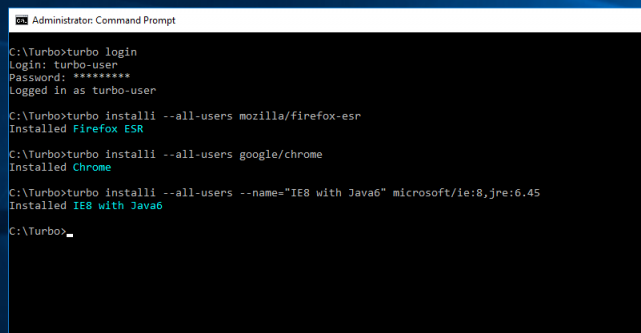
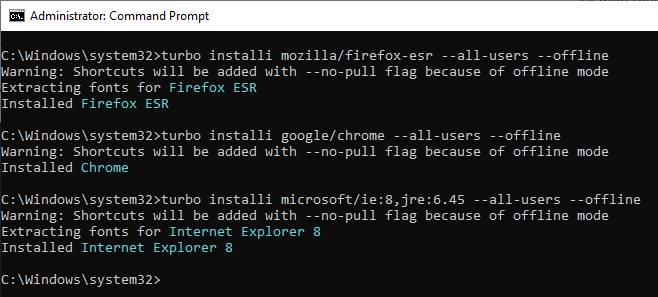
updated citrix integration guide

Changed region(s): [[0.0, 0.0, 1.0, 1.0]]

diff --git a/.vitepress/config.js b/.vitepress/config.js
@@ -82,8 +82,8 @@ export default defineConfig({
                   collapsed: true,
                   items: [
                     { text: 'Overview', link: '/guides/integrations/citrix-guide/' },
-                    { text: 'Command Line', link: '/guides/integrations/citrix-guide/command-line' },
-                    { text: 'Scripts', link: '/guides/integrations/citrix-guide/scripts' }
+                    { text: 'Citrix Virtual Apps', link: '/guides/integrations/citrix-guide/citrix-apps' },
+                    { text: 'Citrix Virtual Desktops', link: '/guides/integrations/citrix-guide/citrix-desktops' }
                   ]
                 },
                 { text: 'Intune', link: '/guides/integrations/intune' },

diff --git a/src/guides/integrations/citrix-guide/citrix-apps.md b/src/guides/integrations/citrix-guide/citrix-apps.md
@@ -1,0 +1,116 @@
+# Citrix Virtual Apps
+
+Deploy Turbo applications to Citrix Virtual Apps servers using the Turbo command line interface with the following steps.
+
+::: tip Prerequisites
+- [Turbo for Windows](https://turbo.net/download/#client) installed for all users
+- Administrative access to Citrix Virtual Apps server
+- Access to Citrix Studio
+:::
+
+## Initial Setup
+
+Install the Turbo Client on the Citrix Virtual Apps server using the [standalone deployment](/guides/desktop-client/standalone-client) or [offline deployment](/guides/desktop-client/offline-client) method.
+
+::: tip Tip
+If users will be streaming the application window rather than the whole desktop, we recommend hiding the Turbo GUI using the `--hide-gui` flag.
+
+:::
+
+```
+> start /wait turbo-client.exe --all-users --silent --hide-gui
+```
+
+![Citrix start command](/images/citrix2.png)
+
+## Adding Applications to the Start Menu
+
+### Using `turbo subscribe`
+
+[Turbo Workspaces](/guides/server/workspaces.html) can be subscribed to the Citrix Virtual Apps server by following the [deploy using subscriptions](/guides/desktop-client/subscriptions.html#deploy-using-subscriptions) guide.
+
+### Using `turbo installi`
+
+Turbo application desktop integration, including Start Menu, desktop shortcuts, and file associations, can be enabled with the `turbo installi` command along with the `--all-users` flag.
+
+1. 	Import the SVM packaged applications on the Citrix Virtual Apps Server that have been created with [Turbo Studio](/studio/) to the client's image repository.
+Application SVMs can also be pulled from Turbo.net Hub.
+
+	::: tip Tips
+	- When pulling an image, if you omit the version from the application identifier, then the latest version will be used.
+	- Multiple images can be pulled simultaneously using a comma separated list.
+	:::
+
+	```
+	# Pull SVM from Turbo.net Hub
+	turbo pull mozilla/firefox-esr,google/chrome,microsoft/ie:8,jre:6.45 --all-users
+
+	# Import SVM from a local folder
+	turbo import svm -n=mozilla/firefox-esr C:\temp\firefox-esr.svm --all-users
+
+	# Import SVM from network folder
+	# Caution: network errors or intermittent network issues may cause the command to fail and need to be re-run
+	turbo import svm -n=mozilla/firefox-esr \\networkshare\turbo\packages\mozilla_firefox-esr\mozilla_firefox-esr.svm --all-users
+	```
+	
+	![Citrix installi start menu](/images/turbo-pull-from-hub.png)
+	
+2.	Install the images using the `turbo installi` command
+	```
+	# Add the latest Firefox ESR browser to the Start Menu
+	> turbo installi --all-users mozilla/firefox-esr
+
+	# Add the latest Google Chrome browser to the Start Menu
+	> turbo installi --all-users google/chrome
+
+	# Add Internet Explorer 8 with Java 6.45 to the Start Menu
+	> turbo installi --all-users microsoft/ie:8,jre:6.45
+	```
+
+	![Citrix installi command](/images/citrix3.png)
+
+	The **Firefox ESR**, **Chrome**, and **IE8 with Java6** applications will appear in the Start Menu of the server.
+
+	![Citrix installi start menu](/images/citrix4.png)
+
+## Adding Applications to the Delivery Platform
+
+Depending on the delivery platform in use, you may also need to add the applications in the delivery system's administration interface.
+
+In this example, we will add applications to Citrix Virtual Apps using Citrix Studio.
+
+1. Start **Citrix Studio** and go to **Applications > Add Applications**
+
+   ![Citrix studio applications](/images/citrix5.png)
+
+2. Select the option to **Add** applications **From Start Menu...**
+
+   ![Citrix studio add application](/images/citrix6.png)
+
+3. Select the **Firefox ESR**, **Chrome**, and **IE8 with Java6** applications
+
+   ![Citrix studio application selection](/images/citrix7.png)
+
+4. Click through to **Finish** to complete the process
+
+   ![Citrix studio application table](/images/citrix8.png)
+
+## Running the Applications
+
+Once added to Citrix Studio, users can access the applications from the Citrix StoreFront website or the Citrix Receiver application.
+
+![Citrix StoreFront](/images/citrix9.png)
+
+Click on an application to launch it.
+
+![Citrix StoreFront launch application](/images/citrix10.png)
+
+Since applications run in isolated environments, any combination of browsers, plugins, and runtimes can run side-by-side on the same server.
+
+![Citrix StoreFront side-by-side](/images/citrix11.png)
+
+For example, an **Internet Explorer 8 with Java 6** environment can run alongside an **Internet Explorer 10 with Java 7** environment or another **Internet Explorer 8 with Java 7** environment.
+
+![Citrix StoreFront side-by-side IE](/images/citrix12.png)
+
+This allows elimination of Citrix siloing and consolidation of servers to a single version of Citrix using a single base image.

diff --git a/src/guides/integrations/citrix-guide/index.md b/src/guides/integrations/citrix-guide/index.md
@@ -1,6 +1,6 @@
 # Citrix Integration Guide
 
-Turbo enables rapid deployment of virtualized applications on Citrix Virtual Apps (formerly XenApp), providing seamless integration with your existing Citrix infrastructure. This integration allows you to:
+Turbo enables rapid deployment of virtualized applications on Citrix Virtual Apps and Desktops (formerly XenApp), providing seamless integration with your existing Citrix infrastructure. This integration allows you to:
 - Deploy applications without modifying base images
 - Run multiple application versions side-by-side
 - Eliminate server silos and consolidate infrastructure
@@ -10,34 +10,29 @@ Turbo enables rapid deployment of virtualized applications on Citrix Virtual App
 - How to install and configure Turbo on Citrix servers
 - How to deploy applications using the command line interface
 - How to integrate applications with Citrix Studio
-- How to automate deployments using PowerShell scripts
 - How to manage multiple application versions
 :::
 
 ::: tip Prerequisites
-- Citrix Virtual Apps (XenApp) environment
+- Citrix Virtual Apps and Desktops environment
 - Administrative access to Citrix servers
-- Turbo account or organization subscription
-- Network access to Turbo.net Hub
+
 :::
 
 ## Deployment Options
 
-Turbo offers two methods for deploying applications to Citrix:
+Turbo apps can be deployed to Citrix Virtual Apps and (Citrix Studio) and to Citrix Virtual Desktops
 
-### Command Line Deployment
-The [command line approach](command-line.md) provides direct control over application deployment and configuration. This method is ideal for:
-- Manual deployment of specific applications
-- Testing and validation
-- Custom deployment configurations
-- Small-scale deployments
+## Citrix Virtual Apps
 
-### Automated Script Deployment
-The [PowerShell scripts approach](scripts.md) enables automated deployment at scale. This method is recommended for:
-- Large-scale deployments
-- Automated application updates
-- Standardized deployment processes
-- Integration with existing automation workflows
+Deploy Turbo images to [Citrix Virtual Apps](citrix-apps.md) using the following methods:
+- Turbo applications can be added to Citrix Studio using the `turbo installi` or `turbo subscribe` commands.
+
+## Citrix Virtual Desktops
+
+Deploy Turbo images to [Citrix Virtual Desktops](citrix-desktops.md) using the following methods:
+- Environments with Turbo Server can `turbo subscribe` a Turbo Workspace on the Citrix Virtual Desktop
+- Environments without Turbo Server can use `turbo installi` commands in a custom login script to install Turbo images on Citrix Virtual Desktops
 
 ## Example: Side-by-Side Application Deployment
 
@@ -48,8 +43,8 @@ One of the key benefits of Turbo on Citrix is the ability to run multiple applic
 
 ## Next Steps
 
-1. Start with the [command line guide](command-line.md) to understand basic deployment
-2. Explore [automated deployment scripts](scripts.md) for scaling your deployment
-3. Visit the [Turbo Hub](https://turbo.net/hub) to browse available applications
+1. Deploy Turbo images to [Citrix Virtual Apps](citrix-apps.md)
+2. Deploy Turbo images to [Citrix Virtual Desktops](citrix-desktops.md)
+3. Visit the [Turbo Hub](https://hub.turbo.net/hub) to browse available applications
 
 For additional support or custom deployment scenarios, contact [Turbo Support](https://turbo.net/support).

diff --git a/src/guides/integrations/citrix-guide/citrix-desktops.md b/src/guides/integrations/citrix-guide/citrix-desktops.md
@@ -1,0 +1,23 @@
+# Citrix Virtual Desktops
+
+Turbo applications can be deployed to Citrix Virtual Dekstops (VDI) using the following methods:
+- Environments with Turbo Server can subscribe a Turbo Workspace on the Citrix Virtual Desktop
+- Environments without Turbo Server can use the `turbo installi` command to install Turbo images on the Citrix Virtual Desktop
+
+## Initial Setup
+
+Install the Turbo Client on the Citrix Virtual Desktop base image using the [standalone client](/guides/desktop-client/standalone-client) or [offline client](/guides/desktop-client/offline-client) method.
+
+::: tip Note
+- A shared and locked-down network image repository is recommended for VDI environments
+:::
+
+## Subscribing applications from a Turbo Workspace
+
+In an environment **with** a Turbo Server, subscribing a [Turbo Workspace](/guides/server/workspaces.html) is recommended for deploying applications to a Citrix Virtual Desktop.
+Follow the [deploy using subscriptions](/guides/desktop-client/subscriptions.html#deploy-using-subscriptions) guide.
+
+## Installing Turbo applications using the Turbo command line
+
+In an environment **without** a Turbo Server, Turbo application desktop integration, including Start Menu, desktop shortcuts, and file associations, can be enabled with the `turbo installi` command.
+The recommended approach in this scenario is to use a custom logon script running the Turbo commands from the [standalone client](/guides/desktop-client/standalone-client.html) guide.
